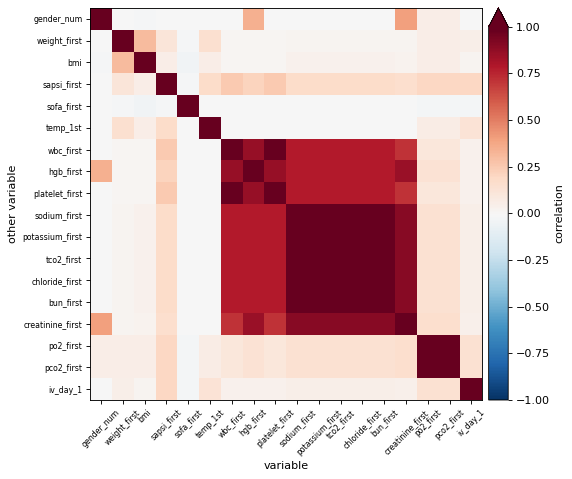
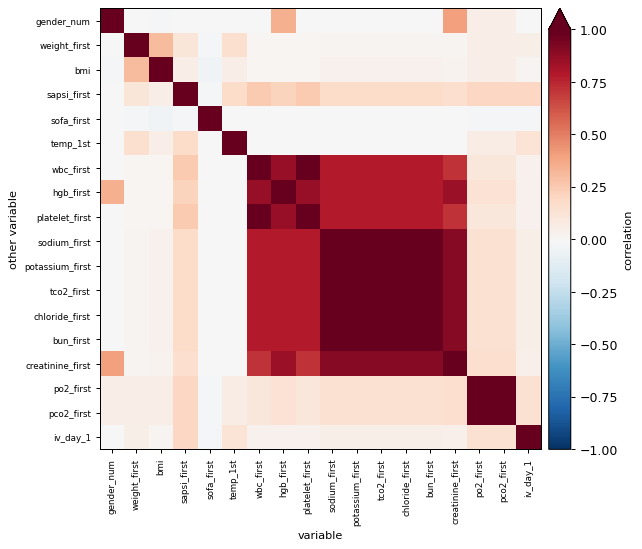
Draw variable names vertically so that they do not overlap, and redraw the previews

diff --git a/ehrapy/plot/_missing_values.py b/ehrapy/plot/_missing_values.py
@@ -85,7 +85,7 @@ def missing_values_matrix(
         colorbar=True,
         invert_yaxis=True,
         xticks=list(enumerate(str(column) for column in columns)),
-        xrotation=45,
+        xrotation=90,
         tools=["hover"],
         **_size(width, height, title),
     )
@@ -132,7 +132,7 @@ def missing_values_barplot(
     (fraction,) = _materialize(stats.mean(_rows(missing), axis=0, dtype=np.float64))
     table = pd.DataFrame({"variable": np.asarray(columns, dtype=str), "observed (%)": 100 * (1 - fraction)})
     return hv.Bars(table, kdims="variable", vdims="observed (%)").opts(
-        ylim=(0, 100), xrotation=45, tools=["hover"], **_size(width, height, title)
+        ylim=(0, 100), xrotation=90, tools=["hover"], **_size(width, height, title)
     )
 
 
@@ -192,7 +192,7 @@ def missing_values_heatmap(
     )
     return hv.HeatMap(
         table, kdims=[_ordered("variable", names), _ordered("other variable", names[::-1])], vdims="correlation"
-    ).opts(cmap="RdBu_r", clim=(-1, 1), colorbar=True, xrotation=45, tools=["hover"], **_size(width, height, title))
+    ).opts(cmap="RdBu_r", clim=(-1, 1), colorbar=True, xrotation=90, tools=["hover"], **_size(width, height, title))
 
 
 @load_hv_extensions()
@@ -246,7 +246,7 @@ def missing_values_dendrogram(
     paths = [np.column_stack([x, y]) for x, y in zip(tree["icoord"], tree["dcoord"], strict=True)]
     ticks = [(5 + 10 * position, label) for position, label in enumerate(tree["ivl"])]
     return hv.Path(paths, kdims=["variable", "distance"]).opts(
-        xticks=ticks, xrotation=45, color="black", **_size(width, height, title)
+        xticks=ticks, xrotation=90, color="black", **_size(width, height, title)
     )
 
 
